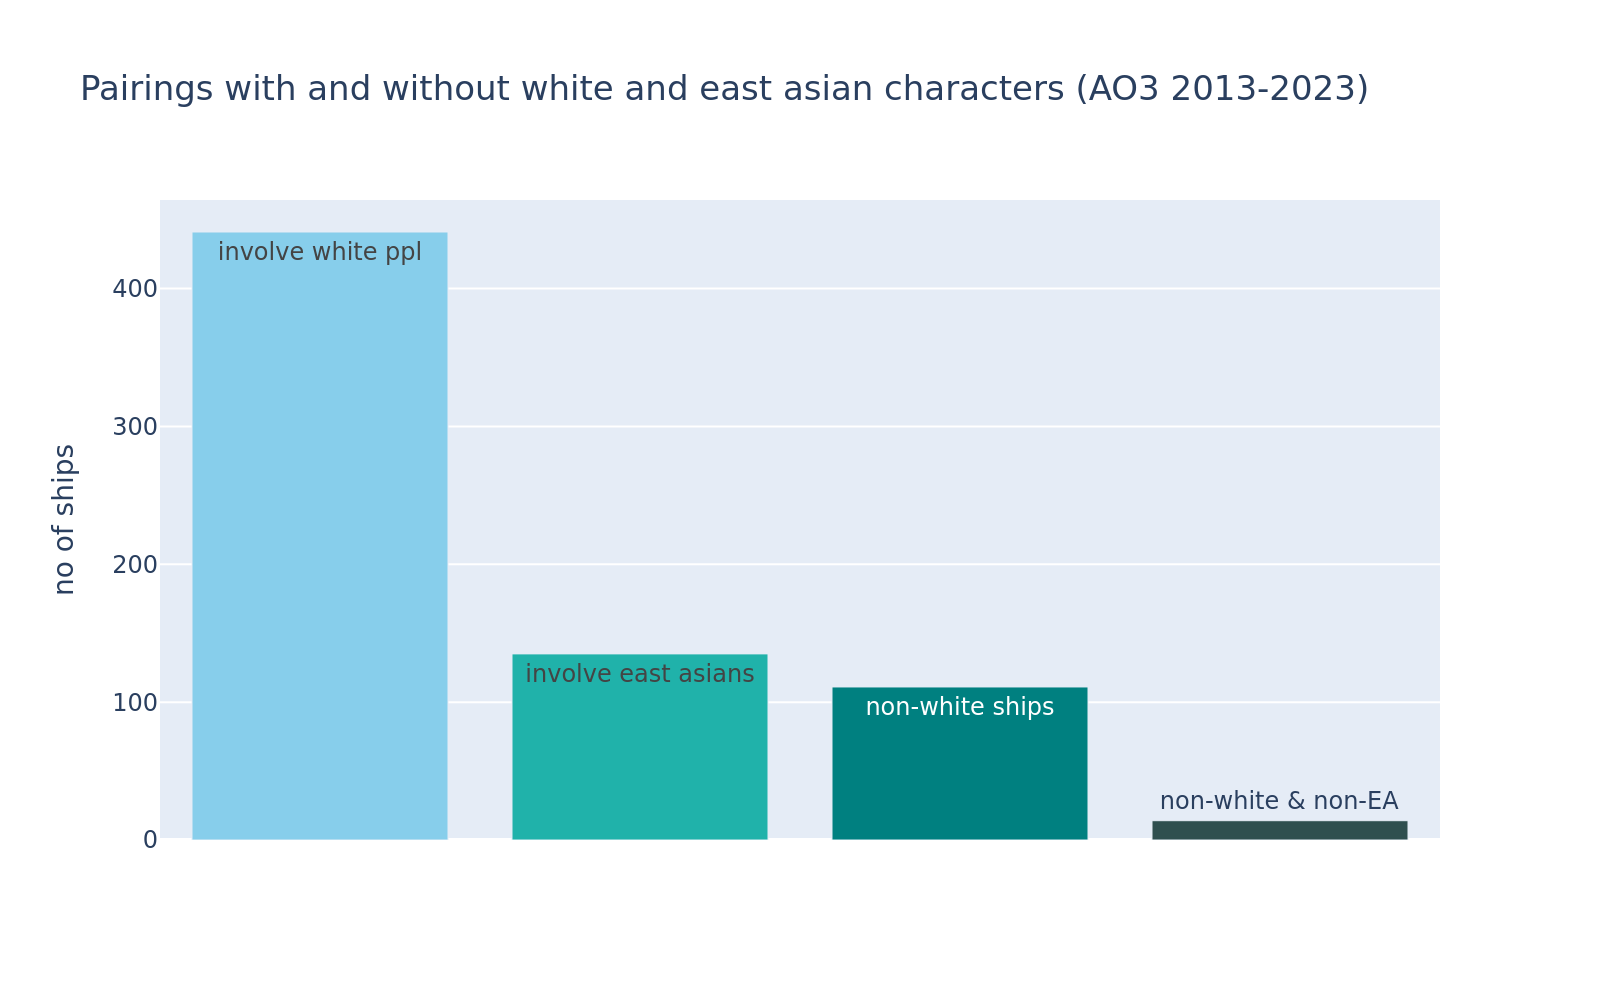
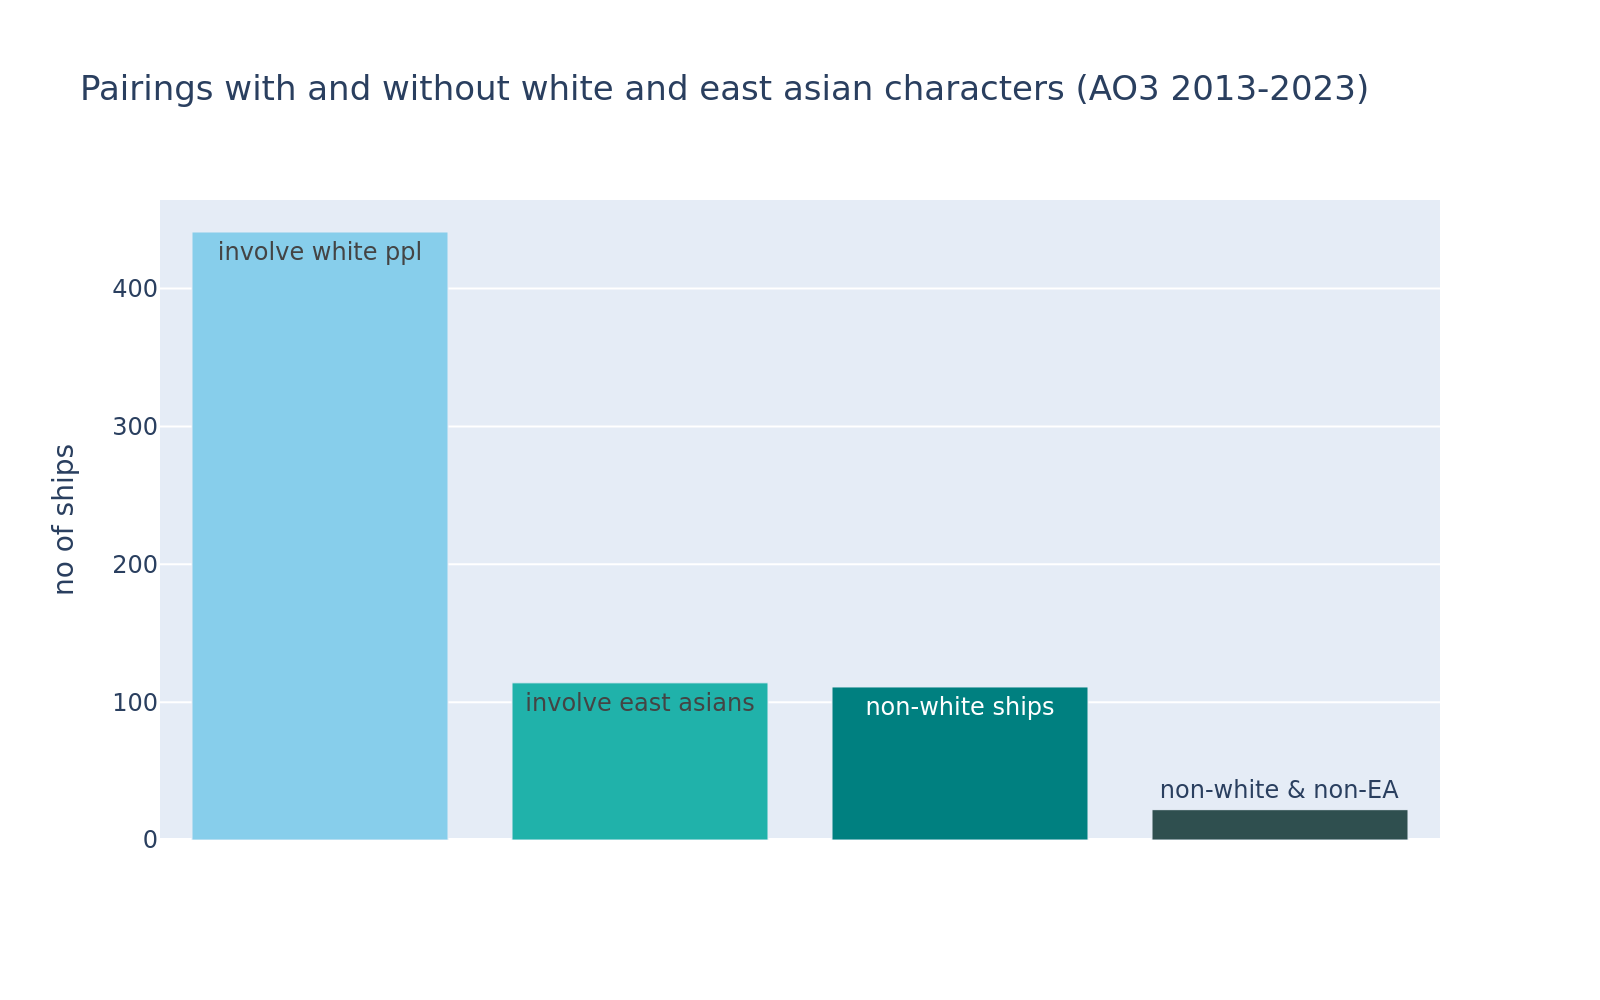
fix the non white category code accidentally catching SE Asians in the E Asian involved stat

Changed region(s): [[0.3125, 0.651, 0.5, 0.713], [0.7188, 0.775, 0.875, 0.837]]

diff --git a/visualisation/ao3_femslash_rankings_2014_2023/vis_femslash_ranking_race_stat_code.py b/visualisation/ao3_femslash_rankings_2014_2023/vis_femslash_ranking_race_stat_code.py
@@ -31,146 +31,3 @@ def total_race_nos_by_year(character_info_df:pd.DataFrame, column_name:str):
         year_dict[int(year)] = sort_df(counted_df, "count")
 
     return year_dict
-
-
-# prep info df with true/false values
-def prep_df_for_non_white_ship_comp(ship_info_df:pd.DataFrame):
-    """
-    takes dataframe that (at least) contains "year", "ship", "fandom", "rank_no", "race_combo" columns
-
-    returns a dict with year keys and dataframe values
-
-    the dataframes contain new columns with true or false/none values based on whether the ship involves
-    white, east asian, ambiguous/non-human/unknown characters and whether they're white-involved,
-    east asian-involved, non-white, or non-white & non-east asian ships based on that
-    """
-    new_df = ship_info_df.copy().get(["year", "ship", "fandom", "rank_no", "race_combo"])
-
-    year_dict = {}
-    unique_year_list = get_unique_values_list(new_df, "year")
-    for year in unique_year_list:
-
-        year_df = get_year_df(new_df, year)
-        year_df = year_df.dropna()
-
-        year_df["contains_white_person"] = year_df["race_combo"].str.contains("White|Eu Ind")
-            # I want to catch anna and elsa cause they're not a "non-white/non-ea" pairing, that's silly
-        year_df["contains_e_asian_person"] = year_df["race_combo"].str.contains("E Asian")
-        year_df["contains_ambig_person"] = year_df["race_combo"].str.contains("Ambig")
-        year_df["contains_non_human"] = year_df["race_combo"].str.contains("N.H.")
-        year_df["contains_unknown"] = year_df["race_combo"].str.contains("Unknown")
-
-        year_df["true"] = True
-        year_df[lbls.non_white_categories[0]] = year_df["true"].where(
-            year_df["contains_white_person"] == True
-        )
-        year_df[lbls.non_white_categories[1]] = year_df["true"].where(
-            year_df["contains_e_asian_person"] == True
-        )
-        year_df[lbls.non_white_categories[2]] = year_df["true"].where(
-            cond= (year_df["contains_white_person"] == False) & (
-                year_df["contains_ambig_person"] == False) & (
-                year_df["contains_non_human"] == False) & (
-                year_df["contains_unknown"] == False)
-        )
-        year_df[lbls.non_white_categories[3]] = year_df["true"].where(
-            cond= (year_df["contains_white_person"] == False) & (
-                year_df["contains_e_asian_person"] == False) & (
-                year_df["contains_ambig_person"] == False) & (
-                year_df["contains_non_human"] == False) & (
-                year_df["contains_unknown"] == False)
-        )
-        year_df.pop("true")
-
-        year_dict[int(year)] = year_df
-
-    return year_dict
-
-# how many ships involving {same racial combos as previously} made the wlw ranking each year
-def count_non_white_ships(prepped_dict:dict): # should be throwing an error
-    """
-    takes output from prep_df_for_non_white_ship_comp
-
-    returns a df with numbers for how many ships each year involved white people, involved east 
-    asian people, did not involve white people, and did not involve white or east asian people
-    """
-    concat_list = [prepped_dict[year] for year in prepped_dict]
-    get_list = ["year"] + lbls.non_white_categories
-    new_df = pd.concat(concat_list).get(get_list)
-    
-    new_df = get_label_counts(new_df, "year") # to be seen if "count" will throw an error (probably)
-    new_df.pop("count")
-
-    return new_df
-
-
-# separate out the diff ship info
-def separate_out_non_white_ships_info(prepped_dict:dict): # (util)
-    """
-    takes output from prep_df_for_non_white_ship_comp
-
-    returns a dict with year keys and dict values
-
-    nested dicts contain "white_involved_ship", "e_asian_involved_ship", "non_white_ship", 
-    and "non_white_or_ea_ship" keys with dataframe values with "year", "ship", "fandom", 
-    "rank_no", "race_combo" & "ship_type"
-    """
-    year_dict = {}
-    for year in prepped_dict:
-        year_dict[year] = {}
-        year_df = prepped_dict[year]
-
-        for item in lbls.non_white_categories:
-            temp_df = year_df.copy().get(
-                ["year", "ship", "fandom", "rank_no", "race_combo", item]
-            ).dropna().rename(columns={item: "ship_type"})
-            temp_df["ship_type"] = item
-
-            year_dict[year][item] = temp_df
-
-    return year_dict
-
-# top (1-5) ranked ship(s) of “” racial group combos as above each year
-def top_non_white_ships(separated_dict:dict):
-    """
-    takes output from separate_out_non_white_ships_info
-
-    returns a dict with year keys and dataframe values
-
-    the dataframes compile the top 3 (if 3) ships that year for each ship-type: 
-    "white_involved_ship", "e_asian_involved_ship", "non_white_ship", "non_white_or_ea_ship"
-    """
-    new_dict = {}
-    for year in separated_dict:
-        year_dict = separated_dict[year]
-        concat_list = [year_dict[item].head(3) for item in lbls.non_white_categories]
-        new_df = pd.concat(concat_list)
-        new_dict[year] = new_df
-    
-    return new_dict
-
-# average rank of “” racial group combos as above each year vs average white-only & white-involved rank
-def average_non_white_ranking(separated_dict:dict):
-    """
-    takes output from separate_out_non_white_ships_info
-
-    returns a dict with year keys and dataframe values
-
-    the dataframes compile the average rank number that year for each ship-type: 
-    "white_involved_ship", "e_asian_involved_ship", "non_white_ship", "non_white_or_ea_ship"
-    """
-    new_dict = {}
-    for year in separated_dict:
-        year_dict = separated_dict[year]
-        concat_list = [year_dict[item] for item in lbls.non_white_categories]
-        new_df = pd.concat(concat_list)
-
-        new_df["rank_no"] = new_df["rank_no"].apply(invert_rank)
-        new_df = new_df.get(
-            ["ship_type", "rank_no"]
-        ).groupby("ship_type").aggregate("mean").round(2)
-        new_df["rank_no"] = new_df["rank_no"].apply(invert_rank)
-        new_df["year"] = year
-        new_dict[year] = sort_df(new_df, "rank_no", asc=True)
-    
-    return new_dict

diff --git a/visualisation/ao3_all_data_2013_2023/vis_ships_file.py b/visualisation/ao3_all_data_2013_2023/vis_ships_file.py
@@ -9,8 +9,8 @@ def fandom_market_share_srs(ships_df:pd.DataFrame):
 
     returns a series with the fandoms that account for more than 1% of total ships
     """
-    ships_per_fandom = get_data_df(ships_df, data_case="ships_per_fandom_util")
-    total_ships = get_data_df(ships_df, data_case="total_ships")
+    ships_per_fandom = get_data_df(ships_df, data_case="ships_per_fandom_util", ranking="total")
+    total_ships = get_data_df(ships_df, data_case="total_ships", ranking="total")
 
     fandom_market_share = get_label_counts(ships_per_fandom, "fandom", "slash_ship")
     
@@ -32,7 +32,7 @@ def ship_per_fandom_by_type_df(ships_df:pd.DataFrame):
     returns a dataframe with various stats on ships of different types by fandom
     (total number per fandom, % of fandom's ships, etc)
     """
-    ships_per_fandom = get_data_df(ships_df, data_case="ships_per_fandom")
+    ships_per_fandom = get_data_df(ships_df, data_case="ships_per_fandom", ranking="total")
     ships_per_fandom_by_type = ships_per_fandom.copy().get(
         ["fandom", "total_ships", "gender_combo"]
     )
@@ -181,7 +181,7 @@ def non_white_ships_srs(total_race_combo_counts:pd.DataFrame):
     # this one's the big oof
     non_white_ships = total_race_combo_counts.copy()
     non_white_ships["contains_white_person"] = non_white_ships.index.str.contains("White|Eu Ind")
-    non_white_ships["contains_e_asian_person"] = non_white_ships.index.str.contains("E Asian")
+    non_white_ships["contains_e_asian_person"] = non_white_ships.index.str.contains("^E Asian", regex=True)
     non_white_ships["contains_ambig_person"] = non_white_ships.index.str.contains("Ambig")
     non_white_ships["contains_non_human"] = non_white_ships.index.str.contains("N.H.")
     non_white_ships["contains_unknown"] = non_white_ships.index.str.contains("Unknown")

diff --git a/visualisation/input_data_code/make_race_data.py b/visualisation/input_data_code/make_race_data.py
@@ -99,7 +99,8 @@ def prep_df_for_non_white_ship_comp(ship_info_df:pd.DataFrame):
 
         year_df["contains_white_person"] = year_df["race_combo"].str.contains("White|Eu Ind")
             # I want to catch anna and elsa cause they're not a "non-white/non-ea" pairing, that's silly
-        year_df["contains_e_asian_person"] = year_df["race_combo"].str.contains("E Asian")
+        year_df["contains_e_asian_person"] = year_df["race_combo"].str.contains("^E Asian", regex=True)
+            # making sure this isn't catching SE Asians by accident
         year_df["contains_ambig_person"] = year_df["race_combo"].str.contains("Ambig")
         year_df["contains_non_human"] = year_df["race_combo"].str.contains("N.H.")
         year_df["contains_unknown"] = year_df["race_combo"].str.contains("Unknown")

diff --git a/visualisation/ao3_all_data_2013_2023/vis_chars_and_ships.py b/visualisation/ao3_all_data_2013_2023/vis_chars_and_ships.py
@@ -1,5 +1,5 @@
 from visualisation.vis_utils.join_member_info import join_character_info_to_df
-from visualisation.vis_utils.make_file_dfs import make_ships_df
+from visualisation.input_data_code.make_file_dfs import make_ships_df
 from visualisation.vis_utils.make_name_string import make_name_string
 from visualisation.vis_utils.clean_fandoms_for_vis import clean_fandoms
 from visualisation.vis_utils.df_utils.retrieve_numbers import (
